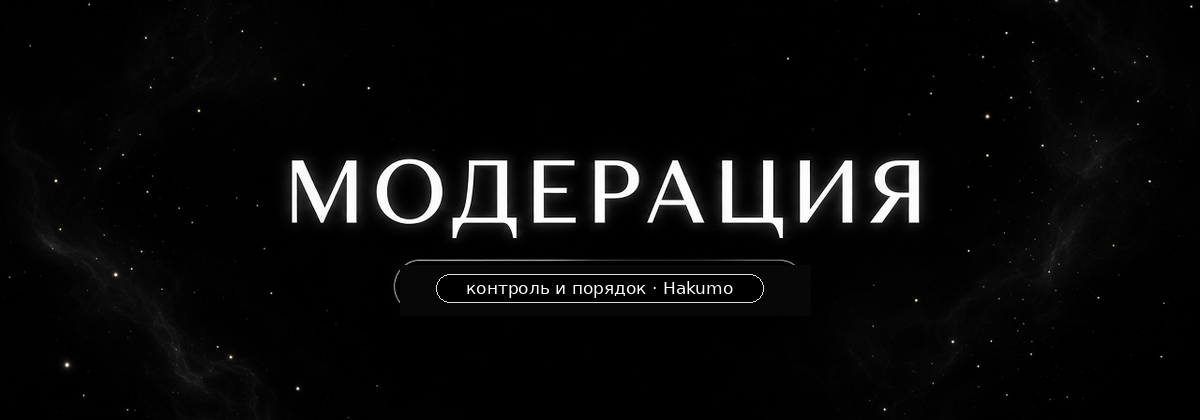
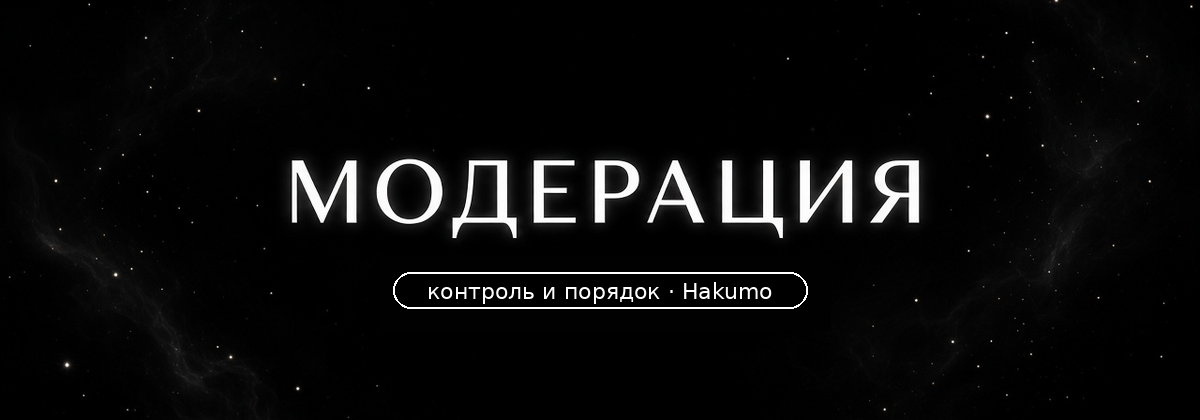
Enlarge modpanel pill: one border, bigger label
Drop the double outline; keep a single thicker pill with larger type.

Changed region(s): [[0.3392, 0.619, 0.6783, 0.7429], [0.3083, 0.65, 0.3392, 0.681]]

diff --git a/tests/test_menu_banners.py b/tests/test_menu_banners.py
@@ -127,8 +127,8 @@ for child in view.children:
 st_joined = '\n'.join(st_texts)
 check('Участник:' not in st_joined and '@' not in st_joined,
       f'после выбора без Участник:@: {st_joined!r}')
-check('v9' in (view._banner_name or ''),
-      f'banner filename v9 cache-bust: {view._banner_name!r}')
+check('v10' in (view._banner_name or ''),
+      f'banner filename v10 cache-bust: {view._banner_name!r}')
 # footer helper без дубля (для embed-фолбека)
 g = type('G', (), {'name': 'HAKUMO'})()
 check(view._footer_text(g) == 'модерация', f"footer hakumo={view._footer_text(g)!r}")

diff --git a/cogs/moderation.py b/cogs/moderation.py
@@ -2511,7 +2511,7 @@ class ModPanelView(discord.ui.LayoutView):
         self.selected_uid = None
         self.pending_action = None
         self._root_edit = None  # interaction.edit_original_response от /modpanel
-        self._banner_name = 'hakumo_modpanel_banner_v9.png'
+        self._banner_name = 'hakumo_modpanel_banner_v10.png'
         self._banner_file = None
         self._use_v2 = True
         self._actor_label = ''

diff --git a/services/menu_banners.py b/services/menu_banners.py
@@ -366,7 +366,7 @@ def menu_banner_file(kind: str = 'modpanel', filename: str = None):
     raw = menu_banner_bytes(kind)
     bio = io.BytesIO(raw)
     bio.seek(0)
-    name = filename or f'hakumo_{kind}_banner_v9.png'
+    name = filename or f'hakumo_{kind}_banner_v10.png'
     return bio, name
 
 
